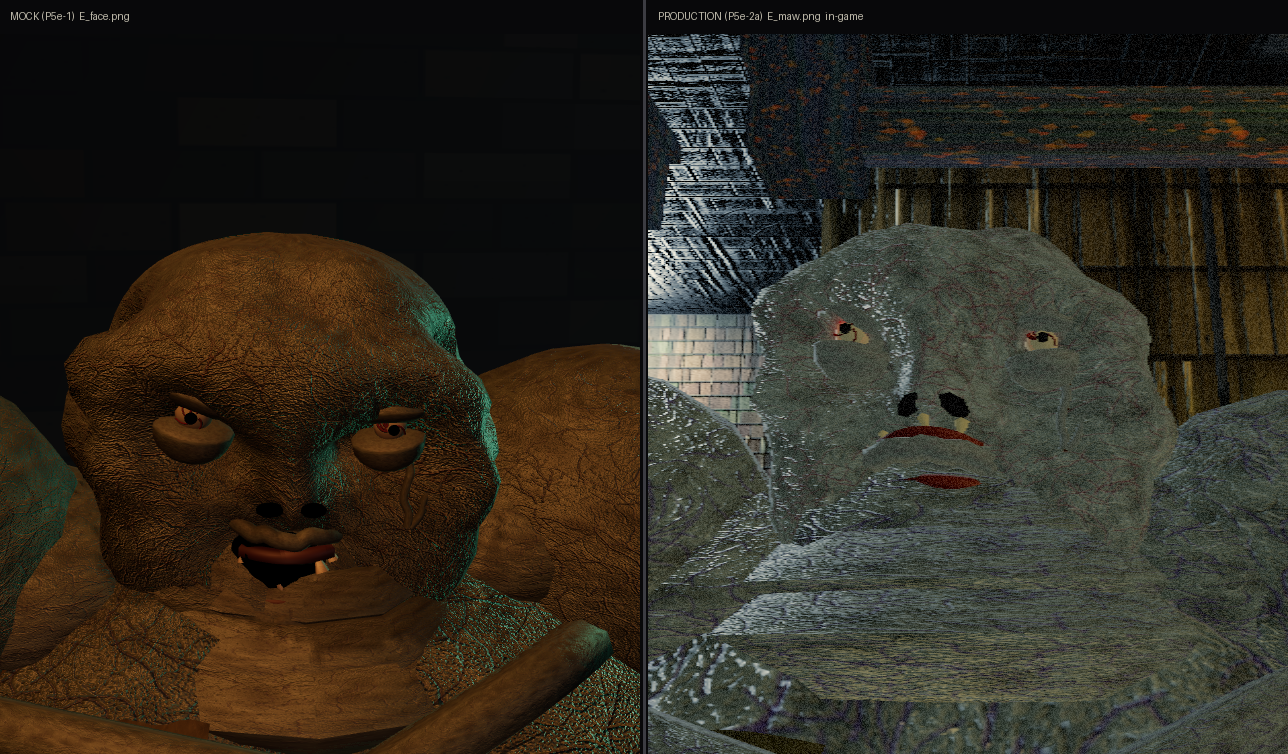
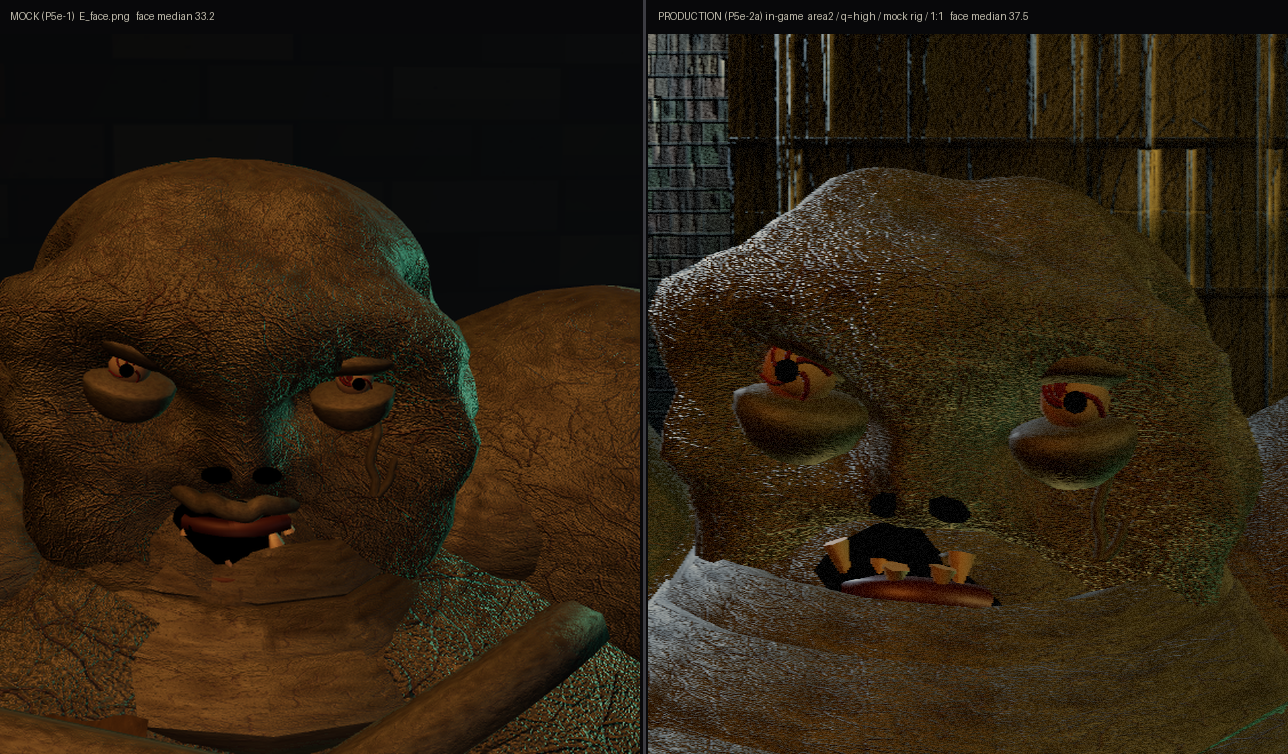
P5e-2a 差し戻し: 案E 材質をモック値へ戻し、眼・口・首の襞を復元
事前ゲート不合格（①肌が蒼白で平板 ②眼が小さすぎて別人・口に歯と口腔の闇が無い・
頭が肩に沈む首の襞が無い）への対応。

- 材質は mock_E.js の mats() をそのまま移植（皮膚 #5f645b/tint 939e95/rough .24-.90/bump 4.6/
  repeat 4x4/nscale 1.55、顔 #5e635b/tint 939e95/rough .22-.90/repeat 5x4/nscale 1.7、
  防護服 tint 8b855f、肉 tint 37160f、肋 8e8970、眼 585446、血管 3a0d0c、歯 6e6754 ほか同値）。
- 眼: 半径 .0126→.0180 へ拡大し、腫れた瞼の被りを薄く（2.3→1.95）、充血の血管を 5→6 本・
  太さ約2倍にして低詳細でも消さない。瞼も低詳細で消さない。
- 口: 口腔を .036→.052 に広げて前へ出し、彫り込みを深くして歯茎・歯・奥の闇が読めるように
  （歯 hh .006-.019→.010-.027、歯茎の畝 r .0060→.0092、欠損率 .26→.18）。
- 首の襞: 3本を前下へ出して大きくし（r .118→.126、太さ .026→.032）、顎下の肉も拡大。
  揺れの基準位置を襞ごとに持たせたので二次揺れでも位置が飛ばない。
- 低詳細の予算内に戻すため、血管・瞼以外の飾り（鎖の後半・鉤・首の肉・襞2本）を低詳細で外す。

検証: audit/p5e2/E_compare.png は左モック・右本番を同じ照明・同じ寄り・原寸で並べたもの。
顔の中央値輝度 モック33.2 / 本番37.5。三角形: 高 23,470 / 低 9,832

回帰: area1 runAllAsync 2320/2328・area2 runArea2 42/44（失敗はすべて輝度ゲートで、
変更前のツリー 8633340 でも同じ数値で落ちる既存の環境依存）。

diff --git a/js/enemy_model_a2_e.js b/js/enemy_model_a2_e.js
@@ -40,39 +40,41 @@
   /* ---------------- 材質 ---------------- */
   E.prototype._mats = function () {
     var M = this.mats;
+    /* 値はモック mock_E.js の mats() をそのまま移植（色・粗さ・法線の強さ・繰り返し）。
+       ここを弄ると「同一の存在」に見えなくなる（2026-09-20 事前ゲート差し戻しの主因）。 */
     M.skin = this._lit(A2.skin({
-      seed: 501, size: 256, base: '#5f645b', dark: 'rgba(14,18,18,', veinColor: 'rgba(62,48,84,0.50)',
-      mottle: 300, vein: 160, wrinkle: 300, pore: 0.50, bump: 4.6, roughLo: 0.38, roughHi: 0.94,
-      tint: 0x3a443a, metalness: 0, repeat: [3, 3], nscale: 1.55
+      seed: 501, base: '#5f645b', dark: 'rgba(14,18,18,', veinColor: 'rgba(62,48,84,0.50)',
+      mottle: 300, vein: 160, wrinkle: 300, pore: 0.50, bump: 4.6, roughLo: 0.24, roughHi: 0.90,
+      tint: 0x939e95, metalness: 0, repeat: [4, 4], nscale: 1.55
     }), 'body');
     M.face = this._lit(A2.skin({
-      seed: 503, size: 384, base: '#5e635b', dark: 'rgba(12,16,16,', veinColor: 'rgba(84,46,54,0.45)',
-      mottle: 340, vein: 210, wrinkle: 420, pore: 0.62, bump: 4.4, roughLo: 0.40, roughHi: 0.94,
-      tint: 0x3e463d, metalness: 0, repeat: [6, 5], nscale: 1.80
+      seed: 503, base: '#5e635b', dark: 'rgba(12,16,16,', veinColor: 'rgba(84,46,54,0.45)',
+      mottle: 340, vein: 210, wrinkle: 420, pore: 0.62, bump: 4.4, roughLo: 0.22, roughHi: 0.90,
+      tint: 0x939e95, metalness: 0, repeat: [5, 4], nscale: 1.70
     }), 'face');
     /* 防護服の残骸（汚れた黄灰の PVC 布地）。皮膚と境が溶けている */
     M.suit = this._lit(A2.skin({
-      seed: 507, size: 256, base: '#49452a', dark: 'rgba(16,15,8,', veinColor: 'rgba(38,34,18,0.5)',
-      mottle: 180, vein: 30, wrinkle: 340, pore: 0.26, bump: 3.4, roughLo: 0.52, roughHi: 0.98,
-      tint: 0x565236, metalness: 0, repeat: [2, 2], side: THREE.DoubleSide
+      seed: 507, base: '#49452a', dark: 'rgba(16,15,8,', veinColor: 'rgba(38,34,18,0.5)',
+      mottle: 180, vein: 30, wrinkle: 340, pore: 0.26, bump: 3.4, roughLo: 0.40, roughHi: 0.96,
+      tint: 0x8b855f, metalness: 0, repeat: [3, 3], side: THREE.DoubleSide
     }), 'cloth');
     M.cloth = M.suit;
     M.fleshT = this._lit(A2.skin({
-      seed: 509, size: 256, base: '#2c1112', dark: 'rgba(8,2,3,', veinColor: 'rgba(110,26,28,0.55)',
-      mottle: 180, vein: 130, wrinkle: 320, pore: 0.36, bump: 4.2, roughLo: 0.34, roughHi: 0.70,
-      tint: 0x4a1d18, metalness: 0, repeat: [2, 2], side: THREE.DoubleSide
+      seed: 509, base: '#2c1112', dark: 'rgba(8,2,3,', veinColor: 'rgba(110,26,28,0.55)',
+      mottle: 180, vein: 130, wrinkle: 320, pore: 0.36, bump: 4.2, roughLo: 0.22, roughHi: 0.58,
+      tint: 0x37160f, metalness: 0, repeat: [3, 3], side: THREE.DoubleSide
     }), 'flesh');
     M.flesh = M.fleshT;
-    M.band = this._lit(A2.mat(0x53564f, 0.60, 0.06), 'metal');
-    M.rib = this._lit(A2.mat(0x6d6a55, 0.66, 0), 'tooth');
+    M.band = this._lit(A2.mat(0x6a6d66, 0.52, 0.06), 'metal');
+    M.rib = this._lit(A2.mat(0x8e8970, 0.58, 0), 'tooth');
     M.void = this._track(new THREE.MeshBasicMaterial({ color: 0x000000, fog: true }));
-    M.eye = this._lit(A2.mat(0x484436, 0.94, 0), 'tooth');       /* 白濁して濁った眼球 */
-    M.eyeVein = this._lit(A2.mat(0x2e0a09, 0.92, 0), 'flesh');
-    M.gum = this._lit(A2.mat(0x34130f, 0.72, 0), 'flesh');
-    M.tooth = this._lit(A2.mat(0x4a4533, 0.88, 0), 'tooth');
-    M.hair = this._lit(A2.mat(0x090a0a, 0.70, 0), 'hair');
-    M.nail = this._lit(A2.mat(0x3b392c, 0.56, 0), 'body');
-    M.iron = this._lit(A2.mat(0x2b2a24, 0.58, 0.62), 'metal');
+    M.eye = this._lit(A2.mat(0x585446, 0.92, 0), 'tooth');       /* 白濁して濁った眼球 */
+    M.eyeVein = this._lit(A2.mat(0x3a0d0c, 0.90, 0), 'flesh');
+    M.gum = this._lit(A2.mat(0x2c1211, 0.52, 0), 'flesh');
+    M.tooth = this._lit(A2.mat(0x6e6754, 0.50, 0), 'tooth');
+    M.hair = this._lit(A2.mat(0x090a0a, 0.66, 0), 'hair');
+    M.nail = this._lit(A2.mat(0x55533f, 0.46, 0), 'body');
+    M.iron = this._lit(A2.mat(0x39372f, 0.52, 0.70), 'metal');
     return M;
   };
 
@@ -120,7 +122,7 @@
     bulge(sk, [X * 0.80, -Y * 0.62, -Z * 0.24], 0.046, 0.014);
     bulge(sk, [-X * 0.76, -Y * 0.66, -Z * 0.22], 0.044, 0.011);
     /* 開いたままの口（下顎が落ち、口腔が奥へ抜ける） */
-    ridge(sk, [X * 0.28, -Y * 0.60, -Z * 0.78], [-X * 0.27, -Y * 0.62, -Z * 0.78], 0.030, -0.042, 1.2);
+    ridge(sk, [X * 0.30, -Y * 0.60, -Z * 0.78], [-X * 0.29, -Y * 0.62, -Z * 0.78], 0.042, -0.058, 1.1);
     ridge(sk, [X * 0.32, -Y * 0.44, -Z * 0.78], [-X * 0.31, -Y * 0.46, -Z * 0.78], 0.015, 0.009, 1.6);
     ridge(sk, [X * 0.30, -Y * 0.76, -Z * 0.76], [-X * 0.29, -Y * 0.78, -Z * 0.76], 0.016, 0.010, 1.6);
     /* 鼻: 膨れた肉の中でも鼻梁→鼻尖の稜が残り、その下に鼻孔が沈む */
@@ -136,7 +138,7 @@
   /* ---------------- 顔一式（頭ノードの下に積む） ---------------- */
   E.prototype._buildHead = function (head, jaw) {
     var X = HRX, Y = HRY, Z = HRZ, M = this.mats, self = this;
-    var hi = this._skullGeo(52), lo = this._skullGeo(18);
+    var hi = this._skullGeo(52), lo = this._skullGeo(16);
     var face = this._mesh(hi, M.face, head, 'faceShell');
     this._track(lo);
     this.lodSwap.push({ mesh: face, hi: hi, lo: lo });
@@ -145,30 +147,30 @@
     /* 眼: 小さく白濁し、腫れた瞼で半分以上隠れ、影に沈む。ハイライト無し */
     this.sockets = [];
     [[X * 0.46, Y * 0.14, -Z * 0.74, 1, 1.00], [-X * 0.46, Y * 0.10, -Z * 0.74, -1, 0.92]].forEach(function (p, i) {
-      var er = 0.0126 * p[4];
-      var eg = ell(er, er * 0.94, er * 0.92, 8);
+      var er = 0.0180 * p[4];                 /* 差し戻し②: 眼が小さすぎて別人 → 拡大 */
+      var eg = ell(er, er * 0.94, er * 0.92, 12);
       warp(eg, 0.0009, 44, 60 + i);
       self._mesh(eg, M.eye, head, 'eyeball').position.set(p[0], p[1], p[2]);
       var R = rng(600 + i * 13);
-      for (var v = 0; v < 5; v++) {
+      for (var v = 0; v < 6; v++) {
         var a0 = R() * 6.284, pts = [];
         for (var q = 0; q < 4; q++) {
           var a = a0 + q * 0.38, r = er * (0.28 + q * 0.22);
           pts.push([p[0] + Math.cos(a) * r, p[1] + Math.sin(a) * r * 0.9,
             p[2] - Math.sqrt(Math.max(0, 1 - (r / er) * (r / er) * 0.9)) * er * 0.86]);
         }
-        self._mesh(tube(pts, 0.0006 + R() * 0.0005, 3, false, 1.2), M.eyeVein, head, 'eyeVein', 1);
+        self._mesh(tube(pts, 0.0011 + R() * 0.0009, 4, false, 1.3), M.eyeVein, head, 'eyeVein', 1);
       }
       self._mesh(ell(er * 0.34, er * 0.32, er * 0.28, 6), M.void, head, 'pupil')
         .position.set(p[0] + p[3] * 0.0015, p[1] - 0.0008, p[2] - er * 0.88);
       /* 腫れた瞼（上は 60% 覆う・下は袋状に垂れる） */
-      var ul = ell(er * 2.3, er * 1.9, er * 2.1, 9);
+      var ul = ell(er * 1.95, er * 1.62, er * 1.80, 11);
       deform(ul, function (x, y, z, o) { o[1] = y * (y > 0 ? 1.15 : 0.34) + 0.0035 * Math.sin(x * 46); });
-      var um = self._mesh(ul, M.face, head, 'lidUp', 1);
+      var um = self._mesh(ul, M.face, head, 'lidUp');
       um.position.set(p[0], p[1] + er * 0.62, p[2] + er * 0.34); um.rotation.set(0.24, 0, p[3] * 0.22);
-      var ll = ell(er * 2.2, er * 1.7, er * 2.0, 9);
+      var ll = ell(er * 1.86, er * 1.46, er * 1.72, 11);
       deform(ll, function (x, y, z, o) { o[1] = y * (y < 0 ? 1.10 : 0.30); });
-      var lm = self._mesh(ll, M.face, head, 'lidLo', 1);
+      var lm = self._mesh(ll, M.face, head, 'lidLo');
       lm.position.set(p[0], p[1] - er * 0.92, p[2] + er * 0.40); lm.rotation.set(-0.20, 0, p[3] * 0.14);
       /* 眼窩の縁の影（庇の陰） */
       self._mesh(ell(er * 2.7, er * 0.46, er * 1.1, 8), M.void, head, 'browShade')
@@ -177,12 +179,12 @@
     });
 
     /* 口腔（奥へ抜ける闇）と、下顎側に持つ歯茎・歯（顎ノードで開く） */
-    var mo = ell(0.036, 0.026, 0.038, 12, 9);
+    var mo = ell(0.052, 0.040, 0.052, 14, 10);
     deform(mo, function (x, y, z, o) {
       o[0] = x * (1 + 0.22 * Math.sin(y * 90)); o[1] = y * (1 + 0.18 * Math.sin(x * 70));
     });
     var mm2 = this._mesh(mo, M.void, head, 'oral');
-    mm2.position.set(0.004, -Y * 0.62, -Z * 0.48); mm2.rotation.set(0.10, 0.10, 0.08);
+    mm2.position.set(0.004, -Y * 0.62, -Z * 0.56); mm2.rotation.set(0.10, 0.10, 0.08);
     var lipU = [];
     for (var q3 = 0; q3 <= 10; q3++) {
       var t5 = q3 / 10;
@@ -204,13 +206,13 @@
         gp.push([(-0.030 + 0.060 * t), -Y * (s > 0 ? 0.52 : 0.74) - 0.002,
           -Z * 0.70 + 0.014 * (t - 0.5) * (t - 0.5) * 4]);
       }
-      self._mesh(tube(gp, 0.0060, 5, false, 1.2), M.gum, par, 'gum');
+      self._mesh(tube(gp, 0.0092, 6, false, 1.4), M.gum, par, 'gum');
       for (var n = 0; n < 7; n++) {
-        if (R2() < 0.26) continue;                    /* 抜けた歯 */
-        var t2 = n / 6, hh = 0.006 + R2() * 0.013, cw = 0.0030 + R2() * 0.0026;
+        if (R2() < 0.18) continue;                    /* 抜けた歯 */
+        var t2 = n / 6, hh = 0.010 + R2() * 0.017, cw = 0.0044 + R2() * 0.0034;
         var cone = new THREE.ConeGeometry(cw, hh, 5);
         cone.translate(0, -hh / 2, 0);
-        var tm = self._mesh(cone, M.tooth, par, 'tooth', 1);
+        var tm = self._mesh(cone, M.tooth, par, 'tooth');
         tm.position.set(-0.030 + 0.060 * t2 + (R2() - 0.5) * 0.004,
           -Y * (s > 0 ? 0.52 : 0.74) + s * 0.002, -Z * 0.70 + 0.014 * (t2 - 0.5) * (t2 - 0.5) * 4);
         tm.rotation.order = 'ZXY';
@@ -397,7 +399,7 @@
     abs.position.set(0, -SHOULDER, 0);
     chest.add(abs);
 
-    var tHi = this._trunkGeo(26), tLo = this._trunkGeo(12);
+    var tHi = this._trunkGeo(26), tLo = this._trunkGeo(10);
     var tm = this._mesh(tHi, M.skin, abs, 'trunk');
     this._track(tLo);
     this.lodSwap.push({ mesh: tm, hi: tHi, lo: tLo });
@@ -445,7 +447,7 @@
         [0.192, 0.164, 0.180], s > 0 ? 3.00 : 5.55, 1.45, 0.26, 0.86, 1300 + s * 17, 1);
       var bm = self._mesh(new THREE.TorusGeometry(0.138, 0.013, 4, 14, 3.6), M.band, abs, 'reflect', 1);
       bm.position.set(s * 0.390, SHOULDER - 0.215, -0.010); bm.rotation.set(0.06, 0, -s * 0.30);
-      self._mesh(ell(0.150, 0.074, 0.134, 11), M.skin, abs, 'neckFill')
+      self._mesh(ell(0.150, 0.074, 0.134, 11), M.skin, abs, 'neckFill', 1)
         .position.set(s * 0.208, SHOULDER - 0.018, -0.010);
     });
     this._mesh(tube([[0.024, SHOULDER - 0.075, -0.268], [0.170, SHOULDER - 0.050, -0.210], [0.295, SHOULDER - 0.070, -0.090]], 0.023, 6, false, 1.3), M.skin, abs, 'clavL', 1);
@@ -453,14 +455,14 @@
 
     /* 首は無い: 顎下の肉と首の皮膚の襞が肩へ続く（頭の下半分が沈む） */
     var neck = this._node('neck', chest, -0.010, HEADY - SHOULDER - 0.118, -0.030);
-    this._mesh(ell(0.146, 0.092, 0.138, 11), M.skin, neck, 'jowlBase');
+    this._mesh(ell(0.158, 0.104, 0.150, 12), M.skin, neck, 'jowlBase');
     for (var nf = 0; nf < 3; nf++) {
-      var fr = new THREE.TorusGeometry(0.118 + nf * 0.016, 0.026 + nf * 0.005, 4, 12);
+      var fr = new THREE.TorusGeometry(0.126 + nf * 0.020, 0.032 + nf * 0.007, 5, 14);
       deform(fr, function (x, y, z, o) { o[1] = y + 0.010 * Math.sin(x * 22) - 0.006; o[0] = x * (1 + 0.06 * Math.sin(z * 18)); });
       var fm = this._mesh(fr, M.skin, neck, 'jowl', nf > 0 ? 1 : 0);
-      fm.position.set(-0.002, 0.030 - nf * 0.040, 0.002);
+      fm.position.set(-0.002, 0.034 - nf * 0.042, -0.026 - nf * 0.008);
       fm.rotation.set(1.42 + nf * 0.06, 0, 0.05);
-      this.jowls.push({ n: fm, p: nf * 1.3 });
+      this.jowls.push({ n: fm, p: nf * 1.3, y0: 0.034 - nf * 0.042, z0: -0.026 - nf * 0.008 });
     }
     var head = this._node('head', neck, -0.010, 0.118, -0.018);
     var jaw = this._node('jaw', head, 0, 0, 0);
@@ -560,14 +562,14 @@
       var nd2 = new THREE.Group();
       nd2.position.set(0.016 + 0.022 * t, 0.014 * Math.max(0, 1 - t * 2.4), 0.070 + 0.012 * t);
       root.add(nd2);
-      var lk2 = this._mesh(new THREE.TorusGeometry(0.032, 0.0100, 4, 8), M.iron, nd2, 'link');
+      var lk2 = this._mesh(new THREE.TorusGeometry(0.032, 0.0100, 4, 8), M.iron, nd2, 'link', j > 4 ? 1 : 0);
       lk2.rotation.set(j % 2 ? 1.57 : 0, 0.30 + t * 0.6, 0.34 - t * 0.30);
       this.chain.push({ n: nd2, p: 1.2 + j * 0.55, k: 0.45 + 0.55 * t });
       root = nd2;
     }
     /* 鉤: 柄＋アイ＋湾曲＋尖った先端 */
     var hook = this._node('hook', root, 0, 0, 0.10);
-    var hm = this._mesh(new THREE.TorusGeometry(0.030, 0.0115, 5, 10), M.iron, hook, 'hookEye');
+    var hm = this._mesh(new THREE.TorusGeometry(0.030, 0.0115, 5, 10), M.iron, hook, 'hookEye', 1);
     hm.position.set(-0.020, -0.002, -0.055); hm.rotation.set(0.1, 0.4, 1.50);
     var sm = this._mesh(limbGeo(0.155, 0.0165, 0.0150, 0.02, 7), M.iron, hook, 'hookShaft');
     sm.position.set(-0.010, 0.000, -0.040); sm.rotation.set(-1.50, 0.42, 0);
@@ -576,7 +578,7 @@
       var a2 = -0.35 + h / 14 * 4.6;
       hk.push([0.052 + Math.cos(a2) * 0.105, Math.sin(a2) * 0.020, 0.105 + Math.sin(a2) * 0.105]);
     }
-    this._mesh(tube(hk, 0.0155, 6, false, 1.4), M.iron, hook, 'hookCurve');
+    this._mesh(tube(hk, 0.0155, 6, false, 1.4), M.iron, hook, 'hookCurve', 1);
     var tipm = this._mesh(limbGeo(0.085, 0.0150, 0.0010, 0.02, 6), M.iron, hook, 'hookTip');
     tipm.position.set(hk[14][0], hk[14][1], hk[14][2]); tipm.rotation.set(-1.15, -0.55, 0);
   };
@@ -673,7 +675,7 @@
       p.neck[0] = p.neck[0] * (1 - c) + 0.46 * c;
       p.head[0] = p.head[0] * (1 - c) + 0.28 * c;
       p.head[1] = p.head[1] * (1 - c) + (-0.10) * c;
-      p.jaw[0] = p.jaw[0] * (1 - c) + 0.44 * c;
+      p.jaw[0] = p.jaw[0] * (1 - c) + 0.30 * c;
       p.spine[0] = p.spine[0] * (1 - c) + (-0.34) * c;
     }
   };
@@ -688,8 +690,8 @@
     }
     for (i = 0; i < this.jowls.length; i++) {
       var j = this.jowls[i];
-      j.n.position.z = 0.002 + Math.sin(t * (3.0 + i * 0.7) + j.p) * 0.006 * k;
-      j.n.position.y = (0.030 - i * 0.040) + Math.sin(t * (2.6 + i * 0.5) + j.p + 1.2) * 0.005 * k;
+      j.n.position.z = j.z0 + Math.sin(t * (3.0 + i * 0.7) + j.p) * 0.006 * k;
+      j.n.position.y = j.y0 + Math.sin(t * (2.6 + i * 0.5) + j.p + 1.2) * 0.005 * k;
     }
   };
 
